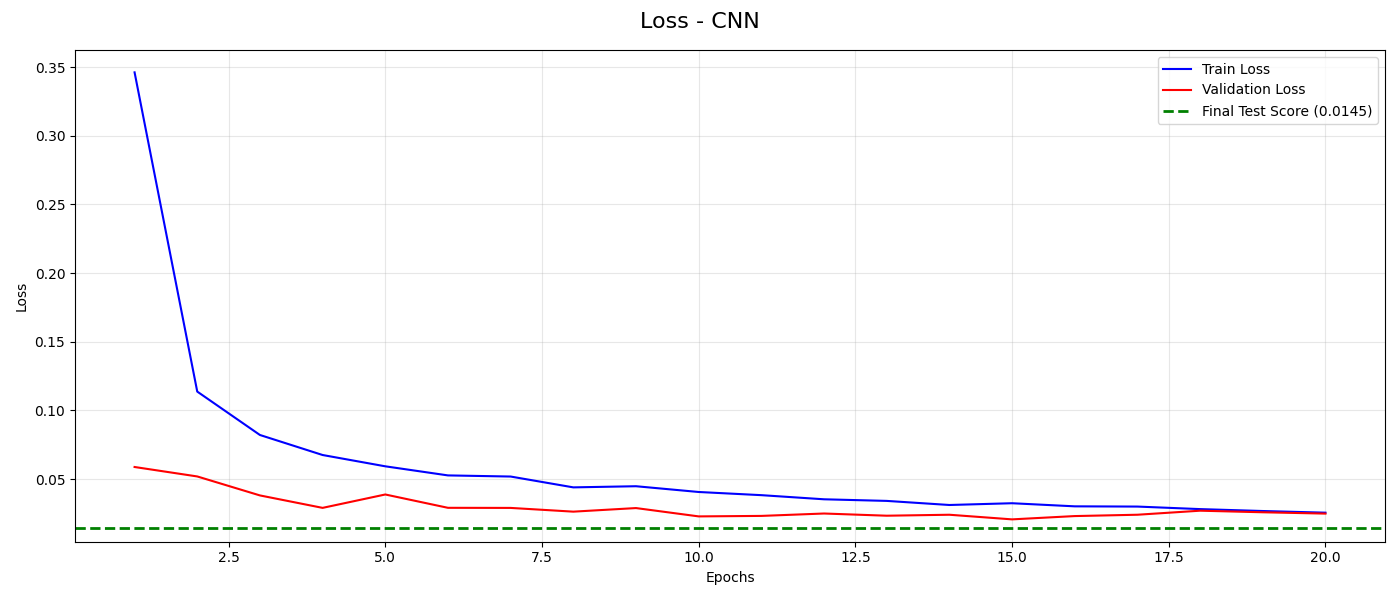
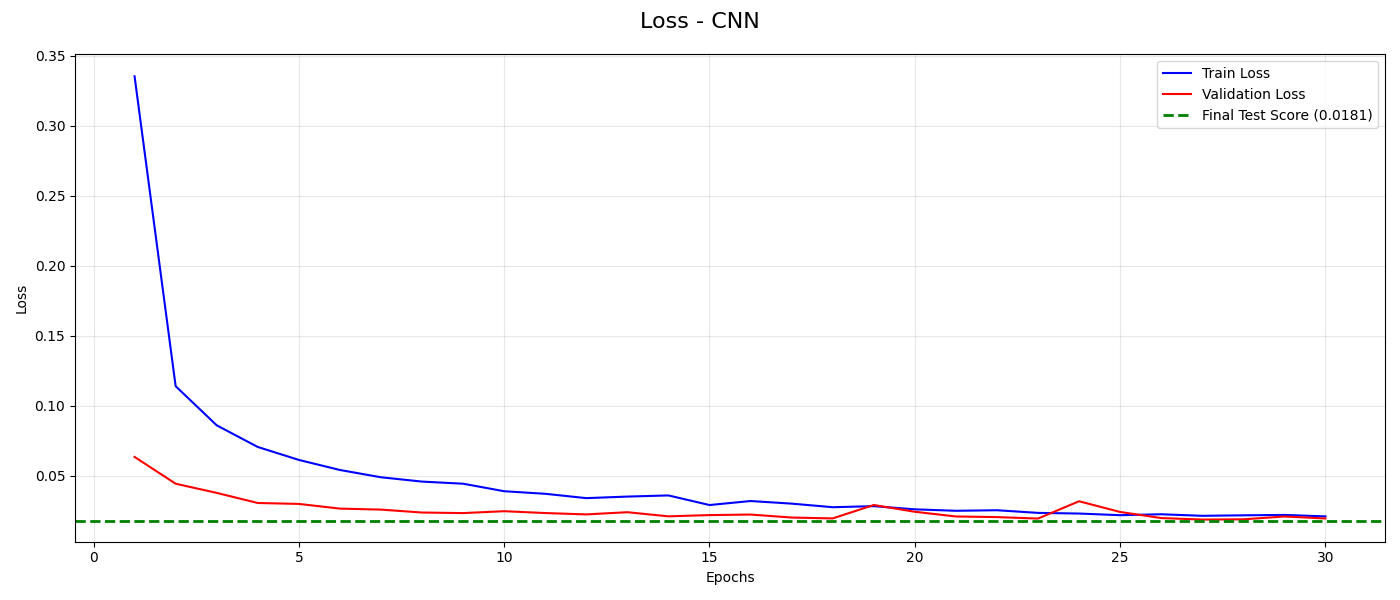
Confusion Matrix Plot + Minor Updated

diff --git a/src/CNN.py b/src/CNN.py
@@ -1,3 +1,4 @@
+import numpy as np
 import keras_tuner as kt
 from tensorflow import keras
 from keras.datasets import mnist
@@ -5,7 +6,7 @@ from keras.models import Sequential
 from keras.layers import Conv2D, MaxPooling2D, Flatten, Dense, Dropout
 from tensorflow.keras.preprocessing.image import ImageDataGenerator
 from sklearn.model_selection import train_test_split
-from src.utils import plot_accuracy, plot_loss
+from src.utils import plot_accuracy, plot_loss, plot_confusion_matrix
 
 # Hyperparameters
 BATCH_SIZE = 128
@@ -13,41 +14,59 @@ EPOCHS = 30
 
 
 def build_model(hp):
+    """Build model architecture for hyperparameter tunning
+
+    Function that defines the general structure of a CNN with the location of key structural hyperparameters that need to be tunned to find the most optima model
+    Args:
+        hp (keras_tunner.HyperParameters): HyperParameters object used to define the search space for the model
+
+    Returns:
+        model: compiled keras model with initial hyperparameters, ready for training
+    """
+    # Define shape of inputs (features) and number of expected outputs (labels)
     input_shape = (28, 28, 1)
     num_labels = 10
 
+    # Initialize model selection
     model = Sequential()
 
     # Input layer
     model.add(keras.Input(shape=input_shape))
 
-    # Conv Layer 1
+    # Conv Layer 1:
+    # HP to tune: finters (32-96), kernel size (3x3 or 5x5)
     hp_filters_1 = hp.Int("filters_1", min_value=32, max_value=96, step=32)
     hp_kernel = hp.Choice("kernel_size", values=[3, 5])
     model.add(Conv2D(filters=hp_filters_1, kernel_size=hp_kernel, strides=1, padding="same", activation="relu"))
     model.add(MaxPooling2D(padding="same"))
 
-    # Check if another layer is necessary
+    # Conv Layer 2:
+    # HP to tune: decide if additional layer is necessay. If yes tune: filters (64-925)
+    # Kernel size remains the same
     if hp.Boolean("use_second_layer"):
         hp_filters_2 = hp.Int("filters_2", min_value=64, max_value=256, step=64)
         model.add(Conv2D(filters=hp_filters_2, kernel_size=hp_kernel, strides=1, padding="same", activation="relu"))
         model.add(MaxPooling2D(padding="same"))
 
+    # Flatten layer to connect to fully connected ANN
     model.add(Flatten())
 
-    # Dense Units
+    # Classification Units:
+    # HP to tune: number of units (64 - 256)
     hp_dense = hp.Int("dense_units", min_value=64, max_value=256, step=64)
     model.add(Dense(units=hp_dense, activation="relu"))
 
-    # Dropout
+    # Dropout: hyperparameters = dropout rate
     hp_dropout = hp.Float("dropout", 0.0, 0.5, step=0.1)
     model.add(Dropout(hp_dropout))
 
     # Output Layer
     model.add(Dense(num_labels, activation="softmax"))
 
+    # Learning Rate: hyperparameter = learning rate
     hp_eta = hp.Choice("learning_rate", values=[0.01, 0.001, 0.0001])
 
+    # Compile entire model
     model.compile(
         loss="sparse_categorical_crossentropy",
         optimizer=keras.optimizers.Adam(learning_rate=hp_eta),
@@ -58,6 +77,21 @@ def build_model(hp):
 
 
 def model_tuner(X_train, y_train, X_val, y_val, epochs):
+    """Tune hyperparameters for most optimal CNN
+
+    This funtion iterates through all the hyperparameters defined in the model. Tests the performance on the validation set (accuracy) and chooses the parameters that produce the highest accuracy as the best model
+
+    Args:
+        X_train np.array: training features
+        y_train np.array: training labels
+        X_val np.array: validation features
+        y_val np.array: validation labels
+        epochs int: number od iterations
+
+    Returns:
+        best_model: model with the best hyperparameters
+    """
+    # Initialize Random Search with the given model structure and other parameters
     tuner = kt.RandomSearch(
         build_model,
         objective="val_accuracy",
@@ -67,6 +101,7 @@ def model_tuner(X_train, y_train, X_val, y_val, epochs):
         project_name="cnn_tuning",
     )
 
+    # Iterative process to find the most optimal model
     tuner.search(
         X_train,
         y_train,
@@ -141,6 +176,10 @@ def cnn_network():
         verbose=1,
     )
 
+    # Model Prediction
+    cnn_pred = cnn.predict(X_test)
+    y_pred = np.argmax(cnn_pred, axis=1)
+
     # Model Evaluation
     print("\n========= Best MLP Performance =========")
     test_loss, test_acc = cnn.evaluate(X_test, y_test)
@@ -161,6 +200,7 @@ def cnn_network():
         "Accuracy - CNN ",
         "cnn_accuracy",
     )
+
     plot_loss(
         history.history["loss"],
         history.history["val_loss"],
@@ -169,6 +209,8 @@ def cnn_network():
         "Loss - CNN",
         "cnn_loss",
     )
+
+    plot_confusion_matrix(y_mnist=y_test, y_pred=y_pred, title="CNN - Confusion Matrix", file_name="cnn_cm")
 
     # Save model
     cnn.save("models/cnn.h5")

diff --git a/src/utils.py b/src/utils.py
@@ -1,4 +1,5 @@
 import matplotlib.pyplot as plt
+from sklearn.metrics import confusion_matrix, ConfusionMatrixDisplay
 
 
 def plot_accuracy(train_acc, val_acc, test_acc, epochs, title, file_name):
@@ -45,5 +46,23 @@ def plot_loss(train_loss, val_loss, test_loss, epochs, title, file_name):
     # Save img
     save_path = f"img/{file_name}.png"
     plt.savefig(save_path)
+
+    plt.show()
+
+
+def plot_confusion_matrix(y_mnist, y_pred, title, file_name):
+    cm = confusion_matrix(y_mnist, y_pred)
+
+    disp = ConfusionMatrixDisplay(confusion_matrix=cm, display_labels=range(10))
+
+    fig, ax = plt.subplots(figsize=(10, 10))
+    disp.plot(cmap="Blues", ax=ax, values_format="d")
+    plt.title(title, fontsize=16)
+    plt.ylabel("True Label", fontsize=12)
+    plt.xlabel("Predicted Label", fontsize=12)
+
+    # Save img
+    save_path = f"img/{file_name}.png"
+    plt.savefig(save_path, bbox_inches="tight")
 
     plt.show()
